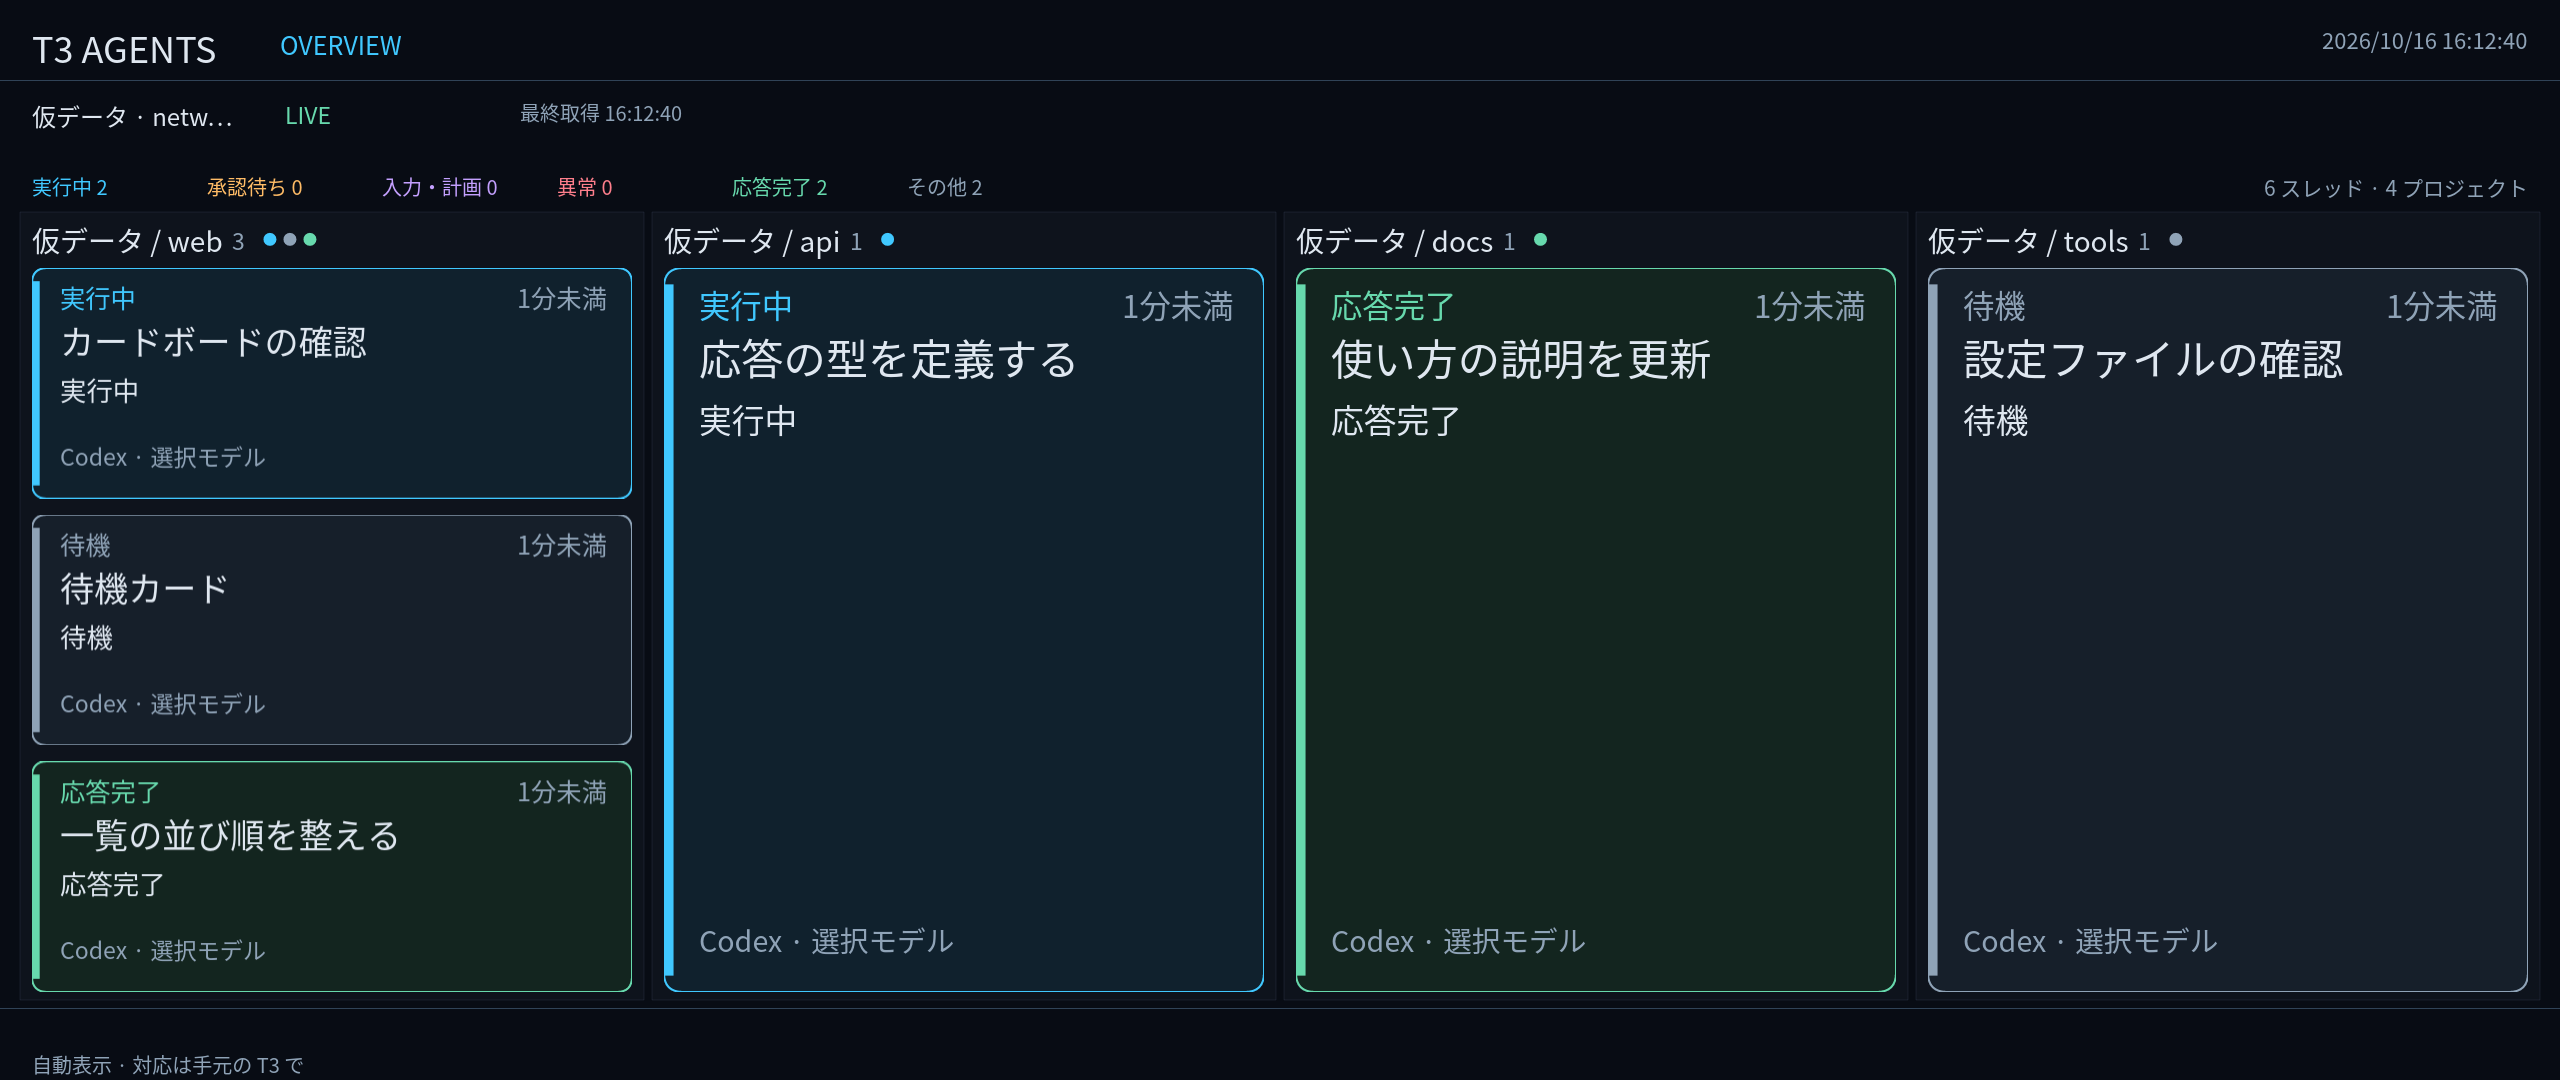
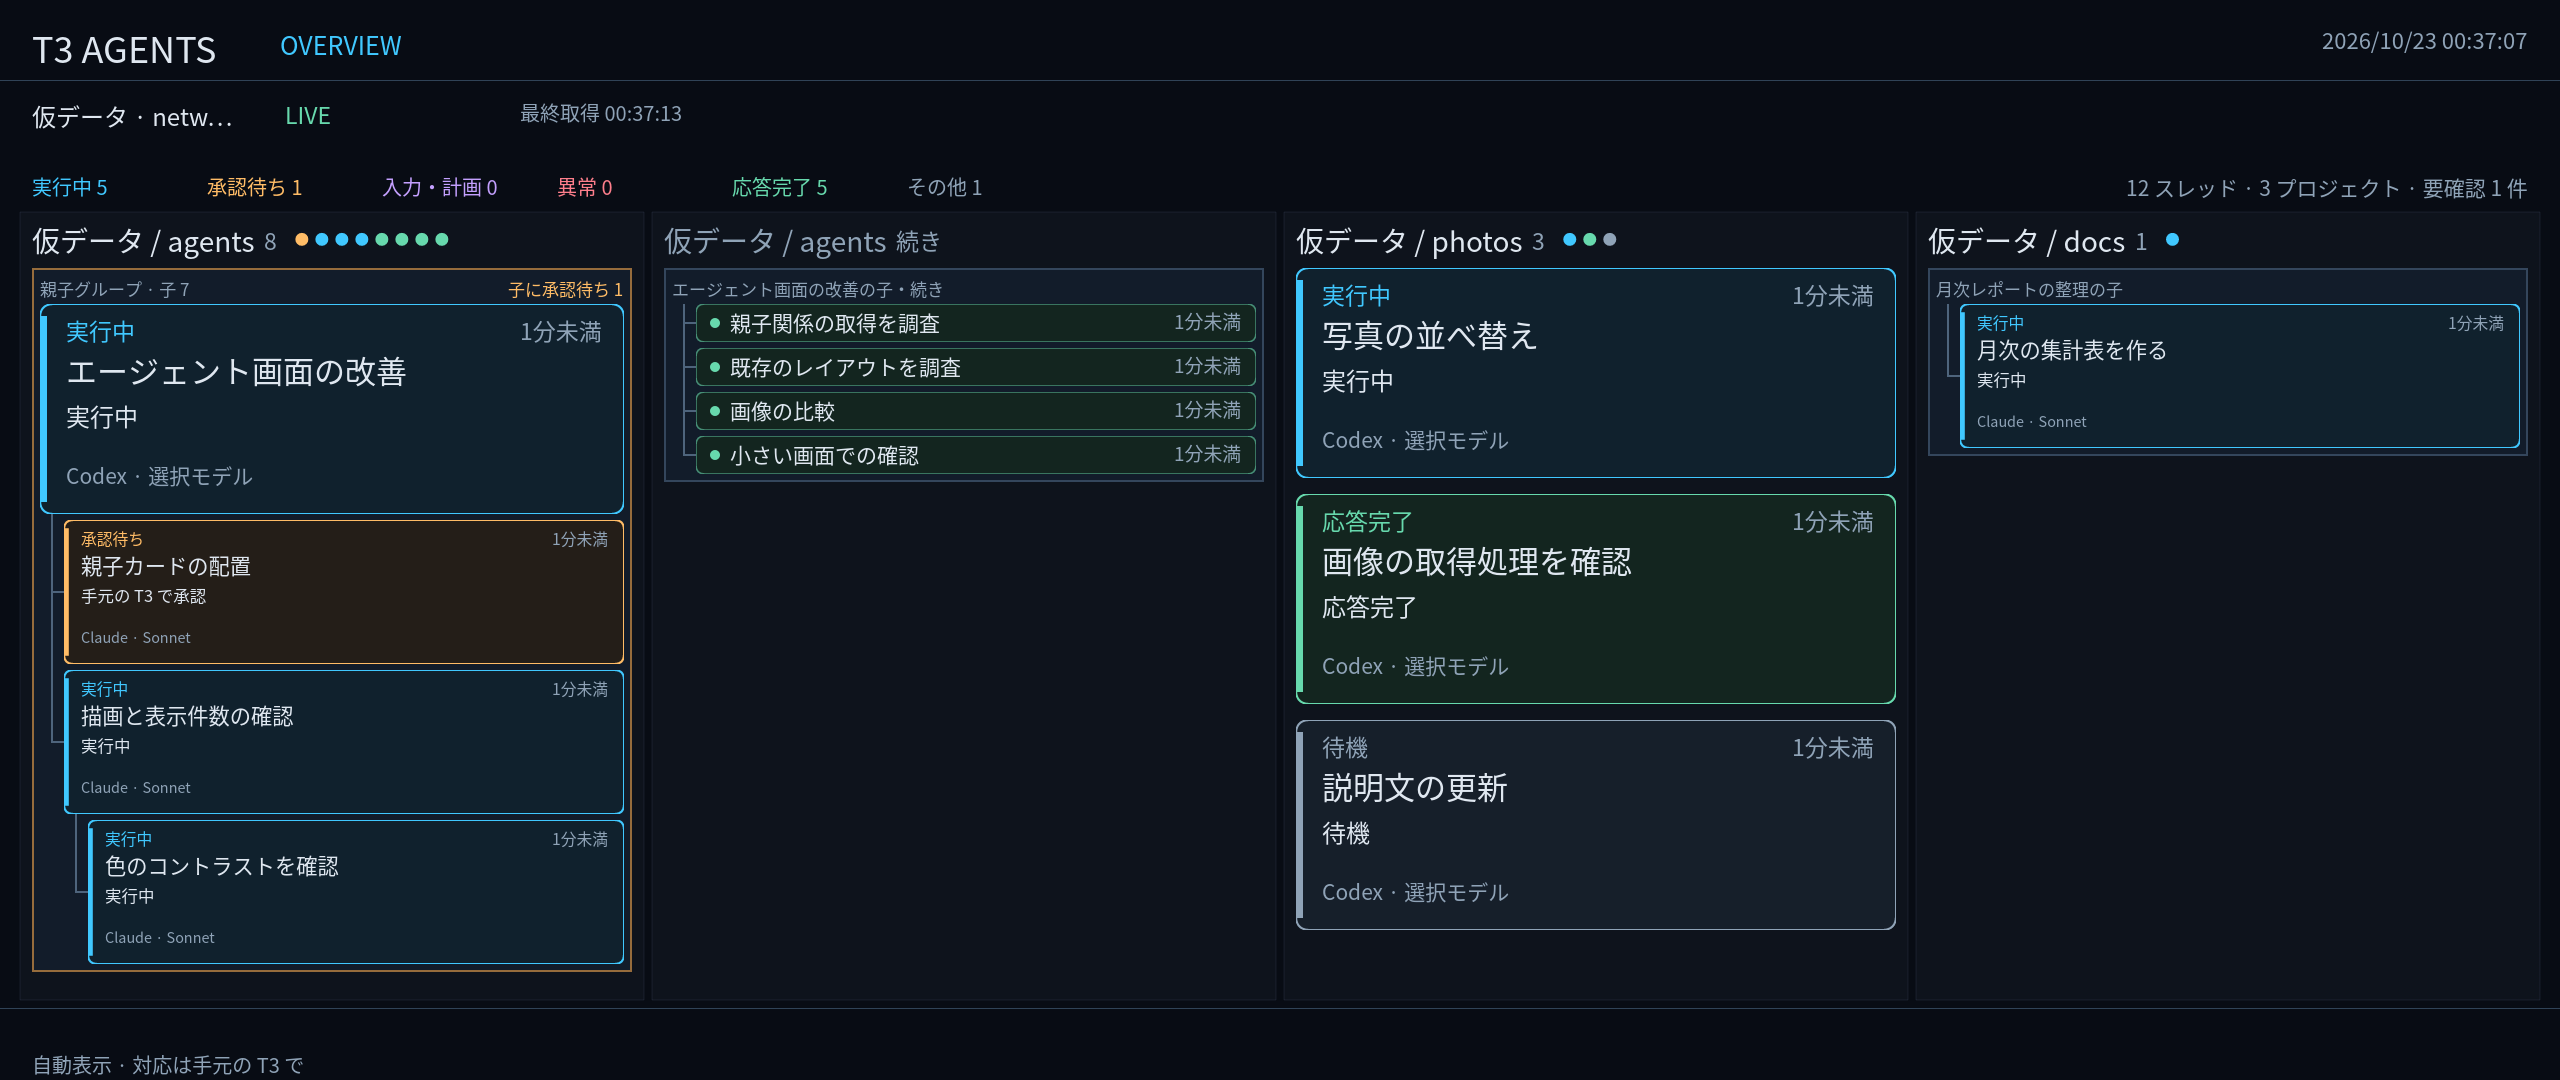
LP: T3 Agent の見本と動画の説明を親子グループ表示に合わせる
- agents-demo.png を agents-family.png(仮データ、2560×1080、約 248 KB)に差し替え
- index.html: 静止画の alt と説明、Agent 動画の説明・aria、紹介動画の aria、機能紹介に親子表示を追記
- LP.md: 0.9(2026-10-23)、画像の撮り方、動画の容量、Agent 30 秒版の場面構成を更新

diff --git a/site/index.html b/site/index.html
@@ -37,7 +37,7 @@
 
     <section class="shell video-section" id="video" aria-label="紹介動画">
       <figure class="shot shot-video">
-        <video controls muted loop playsinline preload="metadata" width="1920" height="1080" poster="videos/miharashi-30s-poster.jpg" aria-label="Miharashi の紹介動画(30 秒)。状況・写真・室内環境と天気・航空機・T3 Agents の 5 画面を順に紹介する。音声はありません。">
+        <video controls muted loop playsinline preload="metadata" width="1920" height="1080" poster="videos/miharashi-30s-poster.jpg" aria-label="Miharashi の紹介動画(30 秒)。状況・写真・室内環境と天気・航空機・T3 Agents(親子グループ表示を含む)の 5 画面を順に紹介する。音声はありません。">
           <source src="videos/miharashi-30s.mp4" type="video/mp4">
           <a href="videos/miharashi-30s.mp4">紹介動画(30 秒、MP4)をダウンロード</a>
         </video>
@@ -72,20 +72,20 @@
           <figcaption><span><strong>AIRCRAFT</strong> 近くを飛ぶ機体の位置と詳細。8 / 2 で注目する機体を選択。</span><span>仮データ</span></figcaption>
         </figure>
         <figure class="shot">
-          <img src="images/agents-demo.png" width="2560" height="1080" loading="lazy" alt="仮データの T3 AGENTS。4 つのプロジェクトごとに、実行中・待機・応答完了のスレッドを並べたカードボード">
-          <figcaption><span><strong>T3 AGENTS</strong> プロジェクトごとのスレッドと状態を一覧に。新着や変更を中央に表示。</span><span>仮データ</span></figcaption>
+          <img src="images/agents-demo.png" width="2560" height="1080" loading="lazy" alt="仮データの T3 AGENTS。プロジェクトごとに実行中・待機・応答完了のスレッドを並べ、親の下に子を線でつないだカードボード。承認待ちの子がある組は枠をアンバーにしている">
+          <figcaption><span><strong>T3 AGENTS</strong> プロジェクトごとのスレッドと状態を一覧に。サブエージェントは親の下にまとめ、承認待ちの組は枠で目立たせます。新着や変更は中央に表示。</span><span>仮データ</span></figcaption>
         </figure>
       </div>
       <section class="agents-video" id="agents-video" aria-labelledby="agents-video-title">
         <p class="eyebrow">T3 Agents / In motion</p>
         <h3 id="agents-video-title">新着から応答完了まで、動きで見る。</h3>
-        <p class="agents-video-lead" id="agents-video-description">30 秒版では、T3 Code との連携の仕組みと、複数プロジェクトの一覧 → 新着の中央通知 → 一覧への復帰 → 同じスレッドの応答完了を紹介します。T3 Code 連携は設定で有効にする読み取り専用の機能で、会話本文は取得しません。</p>
+        <p class="agents-video-lead" id="agents-video-description">30 秒版では、T3 Code との連携の仕組みと、親子でまとまった一覧 → 新着の中央通知 → 一覧への復帰 → 同じスレッドの応答完了を紹介します。子は親の下に線でつなぎ、承認待ちの子がある組は枠をアンバーにします。T3 Code 連携は設定で有効にする読み取り専用の機能で、会話本文は取得しません。</p>
         <figure class="shot shot-video">
-          <video controls muted loop playsinline preload="none" width="1920" height="1080" poster="videos/miharashi-agents-30s-poster.jpg" aria-label="T3 Agent 専用紹介動画、30 秒版。連携図と、実装済みの Agent 画面で新着・応答完了・一覧への復帰を紹介。仮データ、音声なし。" aria-describedby="agents-video-description agents-video-note">
+          <video controls muted loop playsinline preload="none" width="1920" height="1080" poster="videos/miharashi-agents-30s-poster.jpg" aria-label="T3 Agent 専用紹介動画、30 秒版。連携図と、親子グループ表示の Agent 画面で新着・応答完了・一覧への復帰を紹介。仮データ、音声なし。" aria-describedby="agents-video-description agents-video-note">
             <source src="videos/miharashi-agents-30s.mp4" type="video/mp4">
             <a href="videos/miharashi-agents-30s.mp4">Agent 紹介動画(30 秒、MP4)</a>
           </video>
-          <figcaption><span><strong>T3 AGENTS / 30 秒</strong> 連携と通知の流れを、一覧を読みながら確認できます。</span><span><a href="videos/miharashi-agents-30s.mp4">MP4 を開く</a></span></figcaption>
+          <figcaption><span><strong>T3 AGENTS / 30 秒</strong> 連携と通知の流れを、親子の組を読みながら確認できます。</span><span><a href="videos/miharashi-agents-30s.mp4">MP4 を開く</a></span></figcaption>
         </figure>
         <p class="shot-note" id="agents-video-note">両版とも公開用の仮データです。実際の作業状況ではありません。音声なし・自動再生なし。再生ボタンで開始できます。</p>
         <details class="agents-video-short">
@@ -109,7 +109,7 @@
         <article class="feature"><span class="micro-label">PHOTOS</span><h3>旅ごと、季節ごとに写真を流す</h3><p>写真の撮影地から、自宅を離れた「旅」と、いつもの暮らしの「季節」に分けて巡回します。区切りには、行き先の地図と日付のカードを挟みます。</p></article>
         <article class="feature"><span class="micro-label">AIRCRAFT</span><h3>上空を飛ぶ航空機</h3><p>ADS-B 受信機(readsb)の情報から、近くを飛ぶ機体を近い順に並べ、機種・登録記号・運航会社・経路を表示します。独立したレーダー画面で表示し、8 / 2 で注目する機体を選べます。</p></article>
         <article class="feature"><span class="micro-label">ROOM &amp; WEATHER</span><h3>部屋の空気と、これからの天気</h3><p>Home Assistant の温度・湿度・CO₂ などと過去 24 時間の推移を表示。気象庁の今日・明日・週間の予報と、自宅の市町村の警報・注意報をまとめます。</p></article>
-        <article class="feature"><span class="micro-label">T3 AGENTS</span><h3>AI エージェントの動きを眺める</h3><p>T3 Code のプロジェクトとスレッドをカードで並べ、状態の変わったものを中央に表示します。会話本文は取得せず、読み取りだけで動きます。連携は設定で有効にします。</p></article>
+        <article class="feature"><span class="micro-label">T3 AGENTS</span><h3>AI エージェントの動きを眺める</h3><p>T3 Code のプロジェクトとスレッドをカードで並べ、状態の変わったものを中央に表示します。サブエージェントは親の下に線でつないで並べ、承認待ちがあれば枠で知らせます。会話本文は取得せず、読み取りだけで動きます。連携は設定で有効にします。</p></article>
         <article class="feature"><span class="micro-label">ROTATION</span><h3>触らなければ、画面が巡回</h3><p>設定した順番と時間で画面を切り替えます。操作すると既定で 5 分休み、そのあと巡回に戻ります。API から巡回を止めたままにすることも、再開することもできます。</p></article>
         <article class="feature"><span class="micro-label">SCREEN POWER</span><h3>留守ならモニターを消す</h3><p>Home Assistant の在宅判定で、不在が続けば消灯し、帰れば点灯します。アラートは消灯中でも点けて見せます。手動の「常に点灯 / 常に消灯」も切り替えられます。</p></article>
         <article class="feature"><span class="micro-label">REMOTE</span><h3>手元の Echo Show 5 から操作</h3><p>Android 化した Echo Show 5 が、専用の操作盤になります。画面内の操作やメニューからの直接選択、モニターの消灯・点灯・自動に対応。操作ラベルと、今の画面や巡回の状態も手元で分かります。</p></article>

diff --git a/docs/LP.md b/docs/LP.md
@@ -1,12 +1,14 @@
 # Miharashi — LP 構成書
 
-版: 0.8 / 更新日: 2026-10-20(0.6: 2026-10-16、0.3: 2026-10-14、0.2: 2026-10-11)
+版: 0.9 / 更新日: 2026-10-23(0.8: 2026-10-20、0.6: 2026-10-16、0.3: 2026-10-14、0.2: 2026-10-11)
 公開先: https://ysogabe.github.io/miharashi/
 実物: [site/index.html](../site/index.html)
 
 ## 1. LP の目的
 
 Miharashi が何をするものかを、**実装済みの画面**で伝える。実測画像と仮データの見本は明記して区別する。訪問者が「何が映るか」「どう操作するか」「どこまでできていて、次に何をするか」を短時間で理解できるページにする。
+
+0.9 では、T3 Agent の見本を親子グループ表示に差し替えた。サブエージェントの子は親の下に線でつなぎ、承認待ちの子がある組は枠をアンバーにする。収まらないときは静かな子を 1 行にまとめ、次の列に「続き」として出す。静止画は `agents-family.png` から取り直し、Agent 専用の 30 秒版と 15 秒版、紹介動画 30 秒版も同じ見た目で作り直した。機能紹介の T3 Agent のカードにも親子表示の説明を足した(§3、§7、§8)。
 
 0.8 では、画面紹介の T3 AGENTS 静止画の直後に Agent 専用の 30 秒版と 15 秒短縮版を追加した。連携の概念図と、通知から一覧へ戻る動きを伝える(§8)。
 
@@ -48,11 +50,11 @@ Miharashi が何をするものかを、**実装済みの画面**で伝える。
 | `site/images/photo.jpg` | フォトフレーム | 同上に `--photo <生成した風景画像> --caption "夕暮れの湖"` |
 | `site/images/room-demo.png` | 室内環境と天気(仮データ) | `png` の `room.png`(2560×1080) |
 | `site/images/aircraft-demo.png` | 航空機(仮データ) | `png` の `aircraft.png`(2560×1080) |
-| `site/images/agents-demo.png` | T3 Agent(仮データ) | `png` の `agents-overview.png`(2560×1080) |
-| `site/videos/miharashi-30s.mp4` | 紹介動画 30 秒版(1920×1080、約 2.2 MB、音声なし)。仮データ | `miharashi intro-video`(§7) |
+| `site/images/agents-demo.png` | T3 Agent の親子グループ表示(仮データ、約 248 KB) | `png` の `agents-family.png`(2560×1080) |
+| `site/videos/miharashi-30s.mp4` | 紹介動画 30 秒版(1920×1080、2,288,370 bytes、約 2.3 MB、音声なし)。仮データ | `miharashi intro-video`(§7) |
 | `site/videos/miharashi-30s-poster.jpg` | 動画のポスター(1280×720) | 同じ動画の 1.8 秒の 1 コマ |
-| `site/videos/miharashi-agents-30s.mp4` | Agent 専用 30 秒版(1920×1080、約 1.35 MB、音声なし)。仮データ | `miharashi agents-intro-video`(§8) |
-| `site/videos/miharashi-agents-15s.mp4` | Agent 専用 15 秒短縮版(1920×1080、約 1.04 MB、音声なし)。仮データ | 同上 |
+| `site/videos/miharashi-agents-30s.mp4` | Agent 専用 30 秒版(1920×1080、1,496,341 bytes、約 1.5 MB、音声なし)。親子グループ表示の仮データ | `miharashi agents-intro-video`(§8) |
+| `site/videos/miharashi-agents-15s.mp4` | Agent 専用 15 秒短縮版(1920×1080、1,143,290 bytes、約 1.1 MB、音声なし)。仮データ | 同上 |
 | `site/videos/miharashi-agents-{15,30}s-poster.jpg` | 各版と同じ映像の連携図(1280×720) | 15 秒版の 1.5 秒 / 30 秒版の 2 秒 |
 | `site/images/panel.png` | Echo Show 5 の操作パネル | `adb exec-out screencap -p`(960×480 のまま) |
 
@@ -108,7 +110,7 @@ cargo build --release
   --photo site/images/photo.jpg --size 2560x1080 --out work/lp-fixtures
 cp work/lp-fixtures/room.png site/images/room-demo.png
 cp work/lp-fixtures/aircraft.png site/images/aircraft-demo.png
-cp work/lp-fixtures/agents-overview.png site/images/agents-demo.png
+cp work/lp-fixtures/agents-family.png site/images/agents-demo.png
 ```
 
 ## 7. 紹介動画の再生成
@@ -138,7 +140,7 @@ Mac の旧 `video-creator` の編集原本(`agents-edit.json`)は、この作業
 編集原本は [docs/agents-intro-video/edit.json](agents-intro-video/edit.json)。`text` が文言、`versions.15` / `versions.30` が区間の長さ・通知時刻・見出し切替。CLI の既定値はビルド時に埋め込んだ同じ原本で、`--edit` を指定すれば再ビルドせず別の編集ファイルを読める。`intro-video` の 10 / 30 / 60 秒版やその原本とは独立している。
 
 - **15 秒版**: 概念図 3 秒 → 実画面 10 秒 → 案内 2 秒(450 フレーム)。実画面の 0.3 秒で新着、5.0 秒で同じスレッドが応答完了。初期一覧は短く、通知の動きを手早く見せる。新着の復帰は 4.8 秒、完了の復帰は 9.5 秒で、最後の完了一覧を 0.5 秒残す。
-- **30 秒版**: 概念図 6 秒 → 実画面 20 秒 → 案内 4 秒(900 フレーム)。実画面の 3 秒で新着、10 秒で応答完了。新着の復帰 7.5 秒から完了通知まで 2.5 秒、完了の復帰 14.5 秒から締めまで 5.5 秒、一覧を読みやすく保持する。
+- **30 秒版**: 連携図 0–6 秒 → 親子一覧 6–9 秒 → 新着通知 9–13.5 秒 → 子が増えた一覧 13.5–16 秒 → 完了通知 16–20.5 秒 → 完了一覧 20.5–26 秒 → 案内 26–30 秒。親子の組は親の下に子を線でつなぎ、承認待ちの子がある組はアンバー枠で示す。新着の復帰から完了通知まで、完了の復帰から締めまでの間は一覧を読めるように保持する。
 - 実画面は既存の `DemoRun` / `agent_demo::Scenario` が公開用の仮データを実 `AgentScreen` に渡す。1 本の連続した仮想時刻で動かし、見出しを替えるために時計・スレッド・通知をリセットしない。中央通知は通常の 700ms 導入 + 3 秒保持 + 800ms 復帰を使う。通常のアプリ挙動は変えない。
 - 概念図は Rust の Canvas で描く。T3 Code(Codex / Claude) → プロジェクト / スレッドの状態 → Miharashi の一覧 / 中央通知という情報の方向だけに矢印と動く点を置く。読み取り専用・会話本文を取得しないことを図と実画面の補足に明記する。
 
